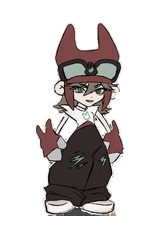
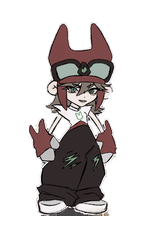
Player walk: the artist's four hand-drawn frames (local)

Changed region(s): [[0.1562, 0.0875, 0.7812, 0.9042]]

diff --git a/ArtSource/Story/make_characters.py b/ArtSource/Story/make_characters.py
@@ -23,6 +23,12 @@ src = Image.open(HERE / "Player_Cutout.png").convert("RGBA")
 scale = BODY / src.height
 
 
+def hat_x(image):
+    """The hat's centre: lined up in every frame so the head doesn't jitter."""
+    a = np.asarray(image)[: image.height // 5, :, 3] > 0
+    return np.nonzero(a)[1].mean()
+
+
 def resize(im, w, h):
     return im.convert("RGBa").resize((max(1, round(w)), max(1, round(h))), Image.LANCZOS).convert("RGBA")
 
@@ -32,7 +38,7 @@ def pose(sx=1.0, sy=1.0, angle=0.0, lift=0.0, dx=0.0, image=src):
     w, h = image.width * scale * sx, image.height * scale * sy
     body = resize(image, w, h)
     canvas = Image.new("RGBA", CANVAS)
-    canvas.alpha_composite(body, (round(FEET[0] - body.width / 2 + dx), round(FEET[1] - body.height - lift)))
+    canvas.alpha_composite(body, (round(FEET[0] - hat_x(image) * scale * sx + dx), round(FEET[1] - body.height - lift)))
     if angle:
         canvas = canvas.rotate(angle, resample=Image.BICUBIC, center=FEET)
     return canvas
@@ -52,8 +58,18 @@ def save(frames, folder, name):
 
 # ---- player ----
 save([pose(1 - d, 1 + 2 * d) for d in (0, 0.006, 0.012, 0.006)], "Player", "Player_Idle")
-# A waddle: rock onto one foot, bob up, rock onto the other.
-save([pose(1.02, 0.98, -4), pose(0.98, 1.03, 0, 5), pose(1.02, 0.98, 4), pose(0.98, 1.03, 0, 5)], "Player", "Player_Walk")
+# The artist's hand-drawn walk (Walk/Walk_0..3, cut by cut_black.py). All four share one placement,
+# so the stride's own bob and sway stay as drawn: the lowest foot of the cycle stands on the ground.
+walk = [Image.open(HERE / f"Walk/Walk_{i}.png").convert("RGBA") for i in range(4)]
+ground = max(np.nonzero(np.asarray(w)[..., 3].any(1))[0][-1] for w in walk) + 1
+centre = np.mean([hat_x(w.crop((0, np.nonzero(np.asarray(w)[..., 3].any(1))[0][0], w.width, w.height))) for w in walk])
+walk_frames = []
+for w in walk:
+    big = resize(w, w.width * scale, w.height * scale)
+    canvas = Image.new("RGBA", CANVAS)
+    canvas.alpha_composite(big, (round(FEET[0] - centre * scale), round(FEET[1] - ground * scale)))
+    walk_frames.append(canvas)
+save(walk_frames, "Player", "Player_Walk")
 # Played once, holding the last frame: push off, stretch, float, fall.
 save([pose(1.1, 0.88), pose(0.9, 1.12), pose(0.97, 1.04), pose(1.0, 1.0, -3)], "Player", "Player_Jump")
 pale = tint(src, (170, 190, 235), 0.25)

diff --git a/ArtSource/Story/cut_black.py b/ArtSource/Story/cut_black.py
@@ -1,0 +1,54 @@
+"""Cuts a drawing off a pure black background and adds the white sticker outline.
+
+    python -I ArtSource/Story/cut_black.py in.png out.png
+"""
+import sys
+from collections import deque
+import numpy as np
+from PIL import Image, ImageFilter
+a = np.asarray(Image.open(sys.argv[1]).convert('RGB')).astype(int)
+H, W, _ = a.shape
+bgc = a.max(axis=2) <= 6
+seen = np.zeros((H, W), bool)
+q = deque()
+for y in range(H):
+    for x in (0, W - 1):
+        if bgc[y, x] and not seen[y, x]: seen[y, x] = True; q.append((y, x))
+for x in range(W):
+    for y in (0, H - 1):
+        if bgc[y, x] and not seen[y, x]: seen[y, x] = True; q.append((y, x))
+while q:
+    y, x = q.popleft()
+    for dy, dx in ((1,0),(-1,0),(0,1),(0,-1)):
+        v, u = y + dy, x + dx
+        if 0 <= v < H and 0 <= u < W and bgc[v, u] and not seen[v, u]:
+            seen[v, u] = True; q.append((v, u))
+def comps(mask):
+    lab = np.zeros(mask.shape, int); n = 0
+    for y, x in zip(*np.where(mask)):
+        if lab[y, x]: continue
+        n += 1; lab[y, x] = n; q = deque([(y, x)])
+        while q:
+            cy, cx = q.popleft()
+            for dy, dx in ((1,0),(-1,0),(0,1),(0,-1)):
+                v, u = cy + dy, cx + dx
+                if 0 <= v < H and 0 <= u < W and mask[v, u] and not lab[v, u]:
+                    lab[v, u] = n; q.append((v, u))
+    return lab, n
+# Gaps between the arms and the body are black too, just enclosed: big black pockets are background.
+lab, n = comps(bgc & ~seen)
+for i in range(1, n + 1):
+    if (lab == i).sum() > 60: seen |= lab == i
+body = ~seen
+lab, n = comps(body)
+sizes = [(lab == i).sum() for i in range(1, n + 1)]
+body = lab == 1 + int(np.argmax(sizes))
+# The first picture has a white sticker outline: give this one the same, so frames match.
+alpha = Image.fromarray((body * 255).astype(np.uint8))
+outline = np.asarray(alpha.filter(ImageFilter.MaxFilter(7))) > 0
+rgb = np.where(body[..., None], a, 244)
+keep = outline
+ys, xs = np.where(keep)
+
+img = np.dstack([rgb, keep * 255]).astype(np.uint8)
+Image.fromarray(img).save(sys.argv[2])  # uncropped: frames keep the artist's placement
